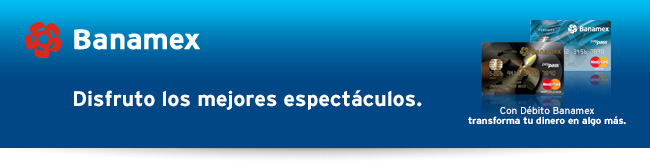
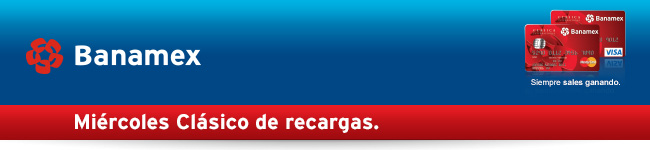
Cabeza y pies ok

diff --git a/BasLvs/cabeza.html b/BasLvs/cabeza.html
@@ -1,0 +1,159 @@
+<!DOCTYPE html>
+<html>
+<head>
+	<title>Respo</title>
+	<img height='0' style="display: none; left: -9999px; position: absolute;" width='0' src="#">
+        <meta http-equiv="Content-Type" content="text/html; charset=utf-8" />
+        <meta name="viewport" content="width=320" />
+        <title>Respnsive Pruebas</title>
+		<style type="text/css">
+		 .ReadMsgBody {width: 100%;}
+         .ExternalClass {width: 100%;}
+		a {color:#000000;}
+		a img {border:none; margin:0; padding:0;}
+		body {
+		padding: 0px;
+		margin: 0px;
+}
+
+		@media screen and (max-width: 480px) {
+		.mobile {
+display:block !important;
+margin: 0;
+padding:0;
+overflow : visible !important;
+width:auto !important;
+max-height:inherit !important;
+
+}
+
+table[class=emailnomob],td[class=emailnomob],img[class=emailnomob], span[class=emailnomob] {display:none !important;}
+		table[class=emailwrapto320] {width:320px !important; height:auto !important; padding:0;}
+		table[class=emailwrapto318] {width:318px !important; height:auto !important; padding:0;}
+		table[class=emailwrapto292] {width:292px !important; height:auto !important; padding:0;}
+		img[class=emailimageresize320] {width:320px !important; height:auto !important; padding:0;}
+		img[class=emailimageresize350] {width:350px !important; height:auto !important; padding:0;}
+		img[class=emailimageresize300] {width:300px !important; height:auto !important; padding:0;}
+		img[class=emailimageresize292] {width:292px !important; height:auto !important; padding:0;}
+		img[class=emailimageresize13] {width:13px !important; height:auto !important; padding:0;}
+		img[class=emailimageresize19] {width:19px !important; height:13px !important; padding:0;}
+		img[class=emailimageresize19_2] {width:19px !important; height:19px !important; padding:0;}
+		img[class=emailimageresize69] {width:69px !important; height:87px !important; padding:0;}
+		img[class=emailimageresize57] {width:57px !important; height:61px !important; padding:0;}
+		img[class=emailimageresize62] {width:62px !important; height:61px !important; padding:0;}
+		img[class=emailimageresize54] {width:54px !important; height:61px !important; padding:0;}
+		img[class=emailimageresize292] {width:292px !important; height:auto !important; padding:0;}
+		img[class=emailimageresize133] {width:1px !important; height:auto !important; padding:0;}
+		*[class=nav]{ display:block !important; width:292px !important; height:auto !important}
+		*[class=nav2]{ display:block !important; width:145px !important; height:auto !important}
+		td[class=emailcolsplit]{width:318px !important; float:left !important; padding:0;}
+		td[class=emailcolsplit292]{width:292px !important; float:left !important; padding:0;}
+		td[class=center]{text-align: center}
+		a[class=header]{display:block; color: #000000 !important; padding:6px 0px 8px 0px !important; border-radius:0px !important; width:292px; text-align:center !important; text-decoration:none !important;}
+		td[class=links]{text-align: center; color:#FFFFFF; font-size: 22px; font-family: Verdana, Geneva, sans-serif; text-decoration: none; height: 39px; bgcolor: #C41230}
+		td[class=emailwidthcollapse]{width:10px !important;}
+		.applelinks a {color:#000000; text-decoration: none;}
+		span[class=emailtext13]{font-size:13px !important;}
+		a[class=footer1]{display:block !important;font-size:14px !important; color: #000000 !important; padding:6px 0px 8px 0px !important; margin-bottom:10px; line-height:18px !important; background:#cccccc !important; border-radius:0px !important; width:292px; text-align:center !important; text-decoration:none !important;}
+		a[class=footer]{display:block !important;font-size:14px !important; color: #000000 !important; padding:6px 0px 8px 0px !important; line-height:18px !important; background:#cccccc !important; border-radius:0px !important; width:292px; text-align:center !important; text-decoration:none !important;}
+		a[class=promolinks]{display:block !important;font-size:22px !important; text-decoration:none !important;}
+		}
+        .emailwrapto320 tr td p a {
+	color: #999;
+}
+        </style>
+
+<meta name="viewport" content="width=device-width, initial-scale=1, maximum-scale=1">
+</head>
+<body bgcolor="#FFFFFF" style="-webkit-text-size-adjust:none; font-family: Arial, Helvetica, sans-serif; padding: 0px; margin: 0px;">
+<table width="100%" height="100%" border="0" cellspacing="0" cellpadding="0" background="" bgcolor="#FFFFFF">
+  <tr>
+    <td align="center" valign="top">
+    	<table width="650" class="emailwrapto320" cellpadding="0" cellspacing="10" border="0" align="center">
+         <tr valign="top">
+           <td width="650" align="center" > <p style="font-family: Verdana, Arial, Helvetica, sans-serif; font-size: 9px; color: #999999"><br />
+           </td>
+         </tr>
+        </table>
+      	<table width="650" border="0" cellspacing="0" cellpadding="0" class="emailwrapto320">
+        	<tr>
+          		<td align="center" style="border: 0px solid #c1c1c1">
+          			<!-- START HEAD -->
+          			<table width="650" border="0" cellpadding="0" cellspacing="0" class="emailwrapto320">
+          				<tr>
+              				<td align="center" class="emailcolsplit" valign="top">
+				              <table border="0" cellspacing="0" cellpadding="0" class="emailwrapto320">
+				                <tr>
+				                  <td align="left" valign="top">
+				                  	<table border="0" cellpadding="0" cellspacing="0">
+							          <tr>
+							          <td class="emailnomob">
+							          	<a href="" target="_blank"><img src="top.jpg" alt=""style="display: block;" border="0" /></a>
+							          </td>
+							          </tr>
+							          <tr>
+                  						<td align="left">
+                   							<div class="mobile" style="display:none; width:0px; max-height:0px; overflow:hidden;">
+                  								<table border="0" cellspacing="0" cellpadding="0" class="nav" style="display:none;" align="center">
+        											<tr>
+                										<td class="emailwrapto320" height="1" style="font-size: 1px; line-height: 1px;" align="left" >
+          												<a href="" target="_blank"><img src="topChico.jpg" alt="" width="318" style="display: block;" border="0" /></a>
+          												</td>
+          											</tr>
+           										</table>
+           									</div>
+                  						</td>
+                					</tr>
+							         </table>
+				          			</td>
+				                </tr>
+				              </table>
+               				</td>
+           				</tr>
+          			</table>
+            <!-- END HEAD -->
+
+            
+
+            <!-- START HEAD -->
+          			<table width="650" border="0" cellpadding="0" cellspacing="0" class="emailwrapto320">
+          				<tr>
+              				<td align="center" class="emailcolsplit" valign="top">
+				              <table border="0" cellspacing="0" cellpadding="0" class="emailwrapto320">
+				                <tr>
+				                  <td align="left" valign="top">
+				                  	<table border="0" cellpadding="0" cellspacing="0">
+							          <tr>
+							          <td class="emailnomob">
+							          	<a href="" target="_blank"><img src="barrabnmx.jpg" alt=""style="display: block;" border="0" /></a>
+							          </td>
+							          </tr>
+							          <tr>
+                  						<td align="left">
+                   							<div class="mobile" style="display:none; width:0px; max-height:0px; overflow:hidden;">
+                  								<table border="0" cellspacing="0" cellpadding="0" class="nav" style="display:none;" align="center">
+        											<tr>
+                										<td class="emailwrapto320" height="1" style="font-size: 1px; line-height: 1px;" align="left" >
+          												<a href="" target="_blank"><img src="barrabnmxChica.jpg" alt="" width="318" style="display: block;" border="0" /></a>
+          												</td>
+          											</tr>
+           										</table>
+           									</div>
+                  						</td>
+                					</tr>
+							         </table>
+				          			</td>
+				                </tr>
+				              </table>
+               				</td>
+           				</tr>
+          			</table>
+            <!-- END HEAD -->
+				</td>
+  			</tr>
+		</table>
+	</td>
+  </tr>
+ </table>
+</body>
+</html>

diff --git a/levis.html b/levis.html
@@ -109,7 +109,7 @@ table[class=emailnomob],td[class=emailnomob],img[class=emailnomob], span[class=e
                </td>
               <td class="emailcolsplit"><table border="1" cellspacing="0" cellpadding="0" class="emailwrapto318">
                 <tr>
-                  <td colspan="2" class="emailnomob"><img src="http://img.ed4.net/levi/images/LEVI_20140707_tieredEnds/spacer50.gif" width="157" height="9" border="1" style="display: block" />a</td>
+                  <td colspan="2" class="emailnomob"><img src="http://img.ed4.net/levi/images/LEVI_20140707_tieredEnds/spacer50.gif" width="157" height="9" border="1" style="display: block" /></td>
                   </tr>
                 <tr>
                   <td>
